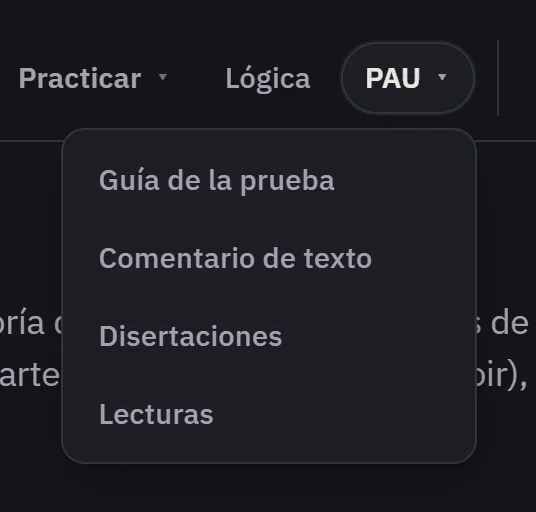
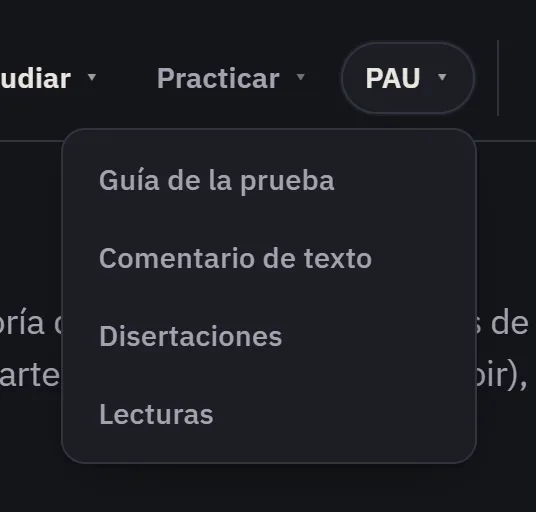
Versión alumnado (2026-10-23)

Changed region(s): [[0.2985, 0.125, 0.597, 0.1875], [0.0, 0.125, 0.2687, 0.1875]]

diff --git a/index.html b/index.html
@@ -531,6 +531,7 @@
         <li>Euskera, 22-10-2026 (lógica, inducción): «abducción» (Peirce) es «abdukzio», forma internacional como «indukzio» (<a href="https://www.euskaltzaindia.eus/index.php?option=com_hiztegianbilatu&amp;task=bilaketa&amp;Itemid=1693&amp;lang=eu&amp;query=indukzio" target="_blank" rel="noopener">indukzio</a>, acepción 1); el Hiztegia solo recoge el sentido anatómico de <a href="https://www.euskaltzaindia.eus/index.php?option=com_hiztegianbilatu&amp;task=bilaketa&amp;Itemid=1693&amp;lang=eu&amp;query=abdukzio" target="_blank" rel="noopener">abdukzio</a>, y Euskalterm no tiene ficha de lógica.</li>
         <li>Euskera, 22-10-2026 (lógica): «cisne» es «zisne» (<a href="https://www.euskaltzaindia.eus/index.php?option=com_hiztegianbilatu&amp;task=bilaketa&amp;Itemid=1693&amp;lang=eu&amp;query=zisne" target="_blank" rel="noopener">zisne</a>, con la definición completa; <a href="https://www.euskaltzaindia.eus/index.php?option=com_hiztegianbilatu&amp;task=bilaketa&amp;Itemid=1693&amp;lang=eu&amp;query=beltxarga" target="_blank" rel="noopener">beltxarga</a> se define solo como «zisnea»).</li>
         <li>Euskera, 22-10-2026 (Rincón de lógica): «caso trampa» es «tranpa-kasu», con el núcleo detrás, como manda la norma 25 de Euskaltzaindia, <a href="https://www.euskaltzaindia.eus/dok/arauak/Araua_0025.pdf" target="_blank" rel="noopener">«Hitz elkartuen osaera eta idazkera»</a>, §I.1 («telefono-zenbaki», «garapen-maila»).</li>
+        <li>Euskera, 22-10-2026 (unificación en toda la web): las formas anteriores «kasu tranpa», «beltxarga» y «ondorio» (cuando traducía «efecto» en el sentido de causa y efecto) pasan a «tranpa-kasu», «zisne» y «efektu», las decididas para el Rincón de lógica en las líneas anteriores. «Ondorio» se mantiene para la conclusión y para las consecuencias de las acciones.</li>
         <li>Árabe, 22-10-2026 (lógica, conversión): la conversión «por limitación» de la universal afirmativa es «العكس الجزئي», porque la tradición árabe dice que la universal afirmativa «se convierte en particular» (Averroes, <a href="https://shamela.ws/book/9707/4" target="_blank" rel="noopener"><em>Kitāb al-Qiyās</em></a>).</li>
         <li>Rincón de lógica, mesa «Spinoza», versión por capas (22-10-2026): elaboración propia, a propuesta del profesor. Cuando las premisas no caben juntas, la mesa nombra el grupo mínimo que choca; las premisas que sobran en la <em>Ética</em> (siete, en P16 cor. 1, P17 cor. 2 y P21e) están demostradas en Isabelle/HOL (teoría Spinoza_redundancia), y el botón «¿Sobra alguna premisa?» solo busca en mundos pequeños. El mapa de propiedades de las relaciones (seis implicaciones y cuatro contraejemplos) está comprobado en Isabelle/HOL (teoría Propiedades_relaciones).</li>
         <li>Euskera, 20-10-2026 (Los afectos de Spinoza y el Laboratorio del Rincón de lógica): los afectos se nombran según el <em>Euskaltzaindiaren Hiztegia</em>: «maitasuna», «gorrotoa», «itxaropena», «etsipena», «errukia», «sumina», «bekaizkeria» (forma principal; «inbidia» es popular), «apaltasuna», «damua», «onespena» y «gogoaren gorabehera» (<a href="https://www.euskaltzaindia.eus/index.php?option=com_hiztegianbilatu&amp;task=bilaketa&amp;Itemid=1693&amp;lang=eu&amp;query=maitasun" target="_blank" rel="noopener">maitasun</a>, <a href="https://www.euskaltzaindia.eus/index.php?option=com_hiztegianbilatu&amp;task=bilaketa&amp;Itemid=1693&amp;lang=eu&amp;query=gorroto" target="_blank" rel="noopener">gorroto</a>, <a href="https://www.euskaltzaindia.eus/index.php?option=com_hiztegianbilatu&amp;task=bilaketa&amp;Itemid=1693&amp;lang=eu&amp;query=itxaropen" target="_blank" rel="noopener">itxaropen</a>, <a href="https://www.euskaltzaindia.eus/index.php?option=com_hiztegianbilatu&amp;task=bilaketa&amp;Itemid=1693&amp;lang=eu&amp;query=etsipen" target="_blank" rel="noopener">etsipen</a>, <a href="https://www.euskaltzaindia.eus/index.php?option=com_hiztegianbilatu&amp;task=bilaketa&amp;Itemid=1693&amp;lang=eu&amp;query=erruki" target="_blank" rel="noopener">erruki</a>, <a href="https://www.euskaltzaindia.eus/index.php?option=com_hiztegianbilatu&amp;task=bilaketa&amp;Itemid=1693&amp;lang=eu&amp;query=sumin" target="_blank" rel="noopener">sumin</a>, <a href="https://www.euskaltzaindia.eus/index.php?option=com_hiztegianbilatu&amp;task=bilaketa&amp;Itemid=1693&amp;lang=eu&amp;query=bekaizkeria" target="_blank" rel="noopener">bekaizkeria</a>, <a href="https://www.euskaltzaindia.eus/index.php?option=com_hiztegianbilatu&amp;task=bilaketa&amp;Itemid=1693&amp;lang=eu&amp;query=apaltasun" target="_blank" rel="noopener">apaltasun</a>, <a href="https://www.euskaltzaindia.eus/index.php?option=com_hiztegianbilatu&amp;task=bilaketa&amp;Itemid=1693&amp;lang=eu&amp;query=damu" target="_blank" rel="noopener">damu</a>, <a href="https://www.euskaltzaindia.eus/index.php?option=com_hiztegianbilatu&amp;task=bilaketa&amp;Itemid=1693&amp;lang=eu&amp;query=onespen" target="_blank" rel="noopener">onespen</a>, <a href="https://www.euskaltzaindia.eus/index.php?option=com_hiztegianbilatu&amp;task=bilaketa&amp;Itemid=1693&amp;lang=eu&amp;query=gorabehera" target="_blank" rel="noopener">gorabehera</a>). Las propiedades de las relaciones, «erreflexibo», «simetriko» e «iragankor», con su acepción matemática del Hiztegia (<a href="https://www.euskaltzaindia.eus/index.php?option=com_hiztegianbilatu&amp;task=bilaketa&amp;Itemid=1693&amp;lang=eu&amp;query=erreflexibo" target="_blank" rel="noopener">erreflexibo</a>, <a href="https://www.euskaltzaindia.eus/index.php?option=com_hiztegianbilatu&amp;task=bilaketa&amp;Itemid=1693&amp;lang=eu&amp;query=simetriko" target="_blank" rel="noopener">simetriko</a>, <a href="https://www.euskaltzaindia.eus/index.php?option=com_hiztegianbilatu&amp;task=bilaketa&amp;Itemid=1693&amp;lang=eu&amp;query=iragankor" target="_blank" rel="noopener">iragankor</a>); «baliozko» (válido), acepción 2 (<a href="https://www.euskaltzaindia.eus/index.php?option=com_hiztegianbilatu&amp;task=bilaketa&amp;Itemid=1693&amp;lang=eu&amp;query=baliozko" target="_blank" rel="noopener">baliozko</a>). «Árbol de verdad» no tiene entrada: «egia-zuhaitza», formado como «egia-taula». La pieza «Deliberar» del simulador es «Eztabaidatu»: en el Hiztegia, «deliberatu» significa «decidir» (<a href="https://www.euskaltzaindia.eus/index.php?option=com_hiztegianbilatu&amp;task=bilaketa&amp;Itemid=1693&amp;lang=eu&amp;query=deliberatu" target="_blank" rel="noopener">deliberatu</a>, <a href="https://www.euskaltzaindia.eus/index.php?option=com_hiztegianbilatu&amp;task=bilaketa&amp;Itemid=1693&amp;lang=eu&amp;query=eztabaidatu" target="_blank" rel="noopener">eztabaidatu</a>); «Rumiar» es «Hausnartu», en su acepción 1 (<a href="https://www.euskaltzaindia.eus/index.php?option=com_hiztegianbilatu&amp;task=bilaketa&amp;Itemid=1693&amp;lang=eu&amp;query=hausnartu" target="_blank" rel="noopener">hausnartu</a>).</li>
@@ -1151,7 +1152,7 @@
 <script src="js/compacto.js"></script>
 <script src="js/nav_toc.js"></script>
 <script src="js/lazy_libs.js"></script>
-<script>window.USO_CONFIG={"url":"https://script.google.com/macros/s/AKfycbzBE41zf12MG7pFbgwgjbOQPriNBJZz4vSigkE-gIjWgSx67pQ-K1IgI4qoRpMlIaQT/exec","grupos":{"fil":["1C","1D","1G"]},"version":"v261"};</script>
+<script>window.USO_CONFIG={"url":"https://script.google.com/macros/s/AKfycbzBE41zf12MG7pFbgwgjbOQPriNBJZz4vSigkE-gIjWgSx67pQ-K1IgI4qoRpMlIaQT/exec","grupos":{"fil":["1C","1D","1G"]},"version":"v262"};</script>
 <script src="js/uso.js"></script>
 <script>
   /* PWA: registra el service worker (offline + instalable). Falla en silencio

diff --git a/js/guia.js b/js/guia.js
@@ -1,4 +1,4 @@
-/* ===== Guía «Cómo usar la web» (13-10-2026; menú al día el 21-10-2026: Étimos, Lógica como pestaña propia, Adagios|Frases) =====
+/* ===== Guía «Cómo usar la web» (13-10-2026; menú al día el 21-10-2026: Étimos, Lógica como pestaña propia, Adagios|Frases; 22-10: Pilares en Estudiar, Lógica fuera del menú de HF, Épocas fuera del de 1.º, Taller de Hegel en Talleres de HF) =====
    Contenido de la sección #guia (la pinta guiaview.js): la versión web del tutorial en PDF para el alumnado
    (lab_iesmdb\proyectos\tutorial_web_alumnado). Una sola lista de bloques para las dos materias de Bachillerato; los
    que solo valen para una llevan `solo: "hf"` o `solo: "fil"`. Las capturas están en media/guia/<materia>/ (y en
@@ -25,7 +25,7 @@ const GUIA = {
     { type: "p", x: "La web reúne en un solo sitio todo lo que trabajamos en clase: la teoría de cada tema, resúmenes, tarjetas de repaso, cuestionarios, ejercicios, juegos y todo lo necesario para los exámenes." },
     { type: "p", x: "<strong>No hace falta registrarse</strong> ni instalar nada, y está en cinco lenguas: castellano, euskera, francés, inglés y árabe. <strong>Tu avance se guarda en tu navegador</strong>: las tarjetas que ya sabes, tu mejor puntuación en los cuestionarios y el último tema que leíste. No se guarda en ningún servidor ni lo ve nadie más." },
     { type: "warn", x: "Como el avance se guarda en el navegador, si cambias de dispositivo o borras los datos de navegación, empiezas de cero. El contenido, en cambio, sigue siempre ahí." },
-    { type: "p", x: "Las primeras pestañas del menú son las imprescindibles: <strong>Estudiar</strong> (la teoría y lo que te ayuda a aprenderla), <strong>Practicar</strong> (comprobar lo que sabes y entrenar), <strong>Lógica</strong> (el Rincón de lógica, con sus ejercicios y su laboratorio) y <strong>PAU</strong> (el examen, los textos y la escritura). Tras una línea vienen las complementarias: <strong>Historia</strong> (el contexto de los filósofos) y <strong>Juegos</strong>.", solo: "hf" },
+    { type: "p", x: "Las primeras pestañas del menú son las imprescindibles: <strong>Estudiar</strong> (la teoría y lo que te ayuda a aprenderla), <strong>Practicar</strong> (comprobar lo que sabes y entrenar) y <strong>PAU</strong> (el examen, los textos y la escritura). Tras una línea vienen las complementarias: <strong>Historia</strong> (el contexto de los filósofos) y <strong>Juegos</strong>. El <strong>Rincón de lógica</strong> no tiene pestaña en esta web: lo abren los enlaces de los temas que lo usan.", solo: "hf" },
     { type: "p", x: "Las primeras pestañas del menú son las imprescindibles: <strong>Estudiar</strong> (la teoría y lo que te ayuda a aprenderla), <strong>Practicar</strong> (comprobar lo que sabes y entrenar), <strong>Lógica</strong> (el Rincón de lógica, con sus ejercicios y su laboratorio) y <strong>Escribir y leer</strong> (la disertación y los textos). Tras una línea vienen las complementarias: <strong>Historia</strong> (el contexto de los filósofos) y <strong>Juegos</strong>.", solo: "fil" },
     { type: "p", x: "Algunas secciones reúnen varias cosas del mismo tipo: arriba tienen una <strong>fila de botones</strong> para pasar de una a otra. Por ejemplo, en Cuestionarios puedes cambiar a <strong>Contrarreloj</strong>, y en Biografías, a <strong>Perseguidos</strong> o <strong>Comunidades</strong>." },
 

diff --git a/sw.js b/sw.js
@@ -8,7 +8,7 @@
    · imágenes, fuentes y CDN (mermaid, markmap) siguen stale-while-revalidate: pesan y casi no cambian.
    Tras la primera visita toda la web ya visitada funciona sin conexión.
    ⚠ Sube VERSION al desplegar cambios para invalidar la caché antigua. */
-const VERSION = "v261-2026-10-22";
+const VERSION = "v262-2026-10-22";
 // Bachillerato y 2.º ESO se sirven en el MISMO origen (mikagiuri.github.io) bajo
 // subrutas distintas. La caché debe ser única por sitio o una web desalojaría la
 // de la otra: derivamos el prefijo del scope del propio service worker.
